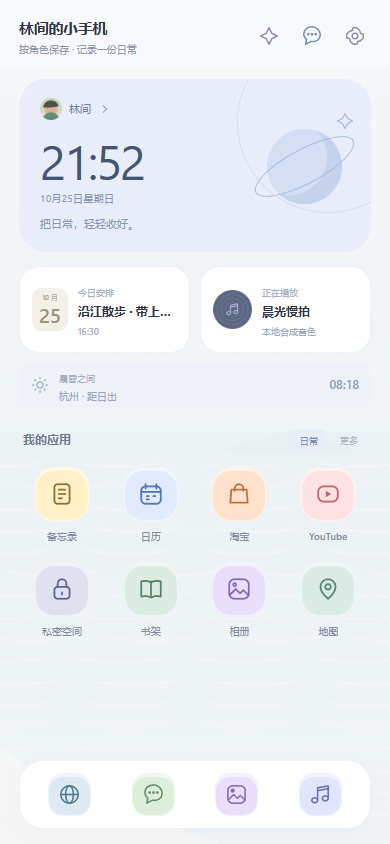
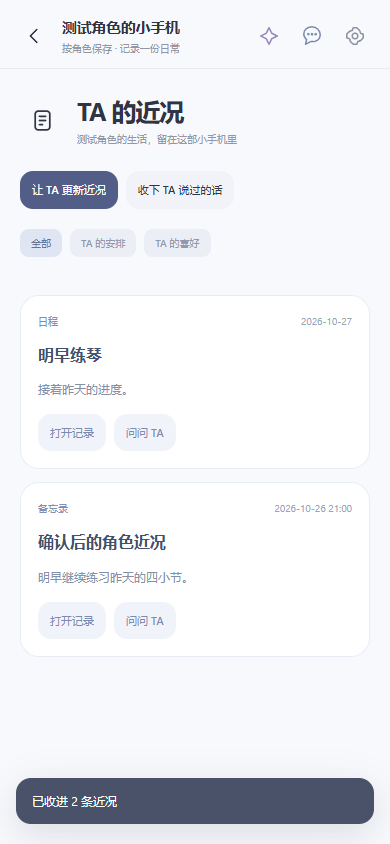
Add a new SDK catalog while retaining the initial-client catalog

diff --git a/sdk/skivu.d.ts b/sdk/skivu.d.ts
@@ -1,9 +1,12 @@
 /** GPL-3.0-only. Host SDK 1.0. All methods return JSON; no host credentials. */
 type Json = string | number | boolean | null | Json[] | { [key:string]:Json };
-type PluginMethod = 'host.info'|'context.get'|'ui.toast'|'storage.get'|'storage.set'|'storage.remove'|'storage.keys'|'secrets.get'|'secrets.set'|'secrets.remove'|'fs.read'|'fs.write'|'fs.list'|'fs.remove'|'files.pick'|'files.save'|'https.request'|'network.request'|'characters.list'|'characters.get'|'characters.update'|'chat.read'|'chat.append'|'ai.generate'|'prompt.set'|'clipboard.read'|'clipboard.write';
+type PluginMethod = 'host.info'|'context.get'|'ui.toast'|'ui.openExternal'|'storage.get'|'storage.set'|'storage.remove'|'storage.keys'|'secrets.get'|'secrets.set'|'secrets.remove'|'fs.read'|'fs.write'|'fs.list'|'fs.remove'|'files.pick'|'files.save'|'https.request'|'network.request'|'characters.list'|'characters.get'|'characters.update'|'chat.read'|'chat.append'|'ai.generate'|'prompt.set'|'clipboard.read'|'clipboard.write';
 interface SkivuSdk {
   readonly apiVersion:'1.0';
   call<T extends Json=Json>(method:PluginMethod,params?:{[key:string]:Json}):Promise<T>;
   on(event:'context.changed'|'host.pause'|'host.suspend',handler:(detail:Json)=>void):()=>void;
 }
 declare const Skivu:SkivuSdk;
+
+/** ui.openExternal({url}) requires external.open and host >= 0.2.39. HTTPS only. */
+interface ExternalOpenReceipt { status: 'accepted' | 'cancelled' | 'not_available'; }

diff --git a/tools/validate_web_plugins.py b/tools/validate_web_plugins.py
@@ -49,15 +49,18 @@ def validate():
         require(build(preferred)==raw,'Preferred editable source differs from built package')
         for item in provenance['files']:
             file=(preferred/item['path']).resolve();require(file.is_relative_to(preferred) and hashlib.sha256(file.read_bytes()).hexdigest()==item['sha256'],'Editable source digest mismatch')
-    path=ROOT/'catalog/apps.json';entries=[]
-    if path.exists():
-        c=json.loads(path.read_bytes());require(set(c)=={'schemaVersion','protocolVersion','packages'} and c['schemaVersion']==1 and c['protocolVersion']=='3.0' and isinstance(c['packages'],list) and len(c['packages'])<=5000,'Invalid Web catalog');entries=c['packages']
-    seen=set()
-    for e in entries:
-        require(set(e)=={'manifest','url','sha256','bytes'},'Invalid catalog entry')
-        ident=e['manifest']['id'];require(ident not in seen,'Duplicate Web plugin ID');seen.add(ident)
-        validate_entry(e,packages)
-    return len(packages),len(entries)
+    count=0
+    for name in ['apps.json','apps-v2.json']:
+        path=ROOT/'catalog'/name;entries=[]
+        if path.exists():
+            c=json.loads(path.read_bytes());require(set(c)=={'schemaVersion','protocolVersion','packages'} and c['schemaVersion']==1 and c['protocolVersion']=='3.0' and isinstance(c['packages'],list) and len(c['packages'])<=5000,'Invalid Web catalog');entries=c['packages']
+        seen=set()
+        for e in entries:
+            require(set(e)=={'manifest','url','sha256','bytes'},'Invalid catalog entry')
+            ident=e['manifest']['id'];require(ident not in seen,'Duplicate Web plugin ID');seen.add(ident)
+            validate_entry(e,packages)
+        count+=len(entries)
+    return len(packages),count
 
 if __name__=='__main__':
     print('Web packages/listed:',validate())

diff --git a/tools/build_web_plugin.py b/tools/build_web_plugin.py
@@ -19,7 +19,7 @@ MIME_TYPES={'.html':'text/html','.htm':'text/html','.css':'text/css',
             '.ico':'image/vnd.microsoft.icon','.woff':'font/woff','.woff2':'font/woff2',
             '.ttf':'font/ttf','.otf':'font/otf','.mp3':'audio/mpeg','.wav':'audio/wav',
             '.ogg':'audio/ogg','.mp4':'video/mp4','.webm':'video/webm','.pdf':'application/pdf'}
-PERMISSIONS={'storage','files','secrets','network','network.local','characters.read','characters.write','chat.read','chat.write','ai.generate','prompt','clipboard'}
+PERMISSIONS={'storage','files','secrets','network','network.local','characters.read','characters.write','chat.read','chat.write','ai.generate','prompt','clipboard','external.open'}
 MANIFEST_KEYS={'schemaVersion','apiVersion','id','name','version','minHostVersion','author','description','license','source','entry','permissions','networkDomains','contributes'}
 
 def require(value,message):

diff --git a/docs/open-plugin-sdk.md b/docs/open-plugin-sdk.md
@@ -59,6 +59,7 @@ Skivu 的独立 Web 插件使用 HTML/CSS/JavaScript、ES modules、Canvas、Web
 | `prompt.set` | prompt | `{text}` → 当前角色的本插件提示词贡献；仅用户启用的插件生效，可设空文本撤回 |
 | `clipboard.read/write` | clipboard | `{}` / `{text}` → 文本 / true |
 | `ui.toast` | 无 | `{text}` → true |
+| `ui.openExternal` | external.open | **宿主0.2.39起**：`{url}` → `{status:"accepted"或"cancelled"或"not_available"}`；每次由宿主确认，再交系统浏览器或关联软件 |
 
 `https.request` 支持标准 HTTP 方法、自定义端口和插件自有 Authorization/Cookie 头，不附加宿主的任何认证信息；不跟随重定向。`networkDomains` 支持精确域名、`*.example.com` 和 `*`（所有公开 HTTPS 站点）。只有声明 `network` 与 `network.local`、并得到用户授权后，才能连接用户自己的 HTTP/本机/局域网服务；可用独立的 Termux/电脑/自托管服务提供 Python、Node、stdio MCP 等能力。Skymoni 自有服务器、解析到宿主服务器的地址、云元数据和链路本地地址始终不对插件开放。解析后的连接地址固定，保留 HTTPS 证书与主机名验证，阻止重新解析与跳转越过边界。单次响应/文件 8 MiB。需要第三方账户的插件使用自己的 secrets 空间。App 不执行任意本机 shell、反射或任意 MethodChannel。
 
@@ -73,3 +74,13 @@ SDK 使用 `Skivu.on("context.changed", callback)`、`Skivu.on("host.suspend", c
 开发者可以从本地 `.skivu.json` 导入，也可添加自己的 HTTPS 目录；无需先成为官方收录作者。官方目录与第三方目录均提供固定下载 URL、SHA-256 和精确字节数。更新进行完整性校验、保留旧包、重置授权。包/目录/SDK 均在 GitHub；服务端运维配置和私有凭据不属于插件项目。
 
 开放 API 只表示插件可请求这些能力。敏感动作仍由宿主显示真实确认，插件不能用声明自行授权，不能冒充宿主系统权限窗口。
+
+## 公开链接与外部软件
+
+`ui.openExternal` 是 SDK 1.0 的增量能力，需声明 `external.open` 并通过 `host.info.methods` 探测。依赖此能力的包设置 `minHostVersion: "0.2.39"`。仅接受一个公开 HTTPS `url`，拒绝账号信息、片段、脚本、file、data 和任意 intent。打开前与确认后均检查 DNS，拒绝私网、环回、链路本地、元数据和宿主服务器目标；同时支持公开 IPv4/IPv6 解析检查。不会附带宿主认证信息，不读取外部软件 Cookie 或登录状态。
+
+`accepted` 仅表示系统接受了打开请求，不能据此声称已登录、发送、支付、下单或播放。`cancelled` 表示用户取消，`not_available` 表示系统无对应处理能力。系统浏览器/关联软件独立处理后续导航、重定向、DNS和其自身账号；插件网络代理的地址固定机制不延伸到外部软件。没有新增插件 ID、renderer 或第三方包名白名单。
+
+## 目录向前兼容
+
+0.2.40起使用官方 `https://skymoni.com/app-plugins/catalog/apps-v2.json`，自动迁移此前官方地址，保留用户第三方目录。GitHub备用路径为 `catalog/apps-v2.json`。旧 `apps.json` 及其GitHub备用内容继续提供初版宿主可解析的条目，不加入其不认识的权限。新版逐条隔离未来/异常条目，展示兼容提示，其他有效插件继续可用。两个目录都保持协议3.0并校验固定提交、完整manifest、SHA-256与大小；没有更改既有下载地址或逐插件ID特判。

diff --git a/README.md b/README.md
@@ -30,7 +30,7 @@ python tools/validate.py --package /path/to/your/plugin
 
 ## 仓库内容
 
-[角色小手机 1.2.0](docs/pocket-phone.md) 提供21个角色生活应用。源码、测试、安装包与发行版独立维护在 [skivu-pocket-phone](https://github.com/skyjjgw/skivu-pocket-phone)，本仓库仅收录固定提交的安装链接、清单、大小与摘要。
+[角色小手机 1.3.0](docs/pocket-phone.md) 提供21个角色生活应用。源码、测试、安装包与发行版独立维护在 [skivu-pocket-phone](https://github.com/skyjjgw/skivu-pocket-phone)，本仓库仅收录固定提交的安装链接、清单、大小与摘要。
 
 | 路径 | 用途 |
 | --- | --- |
@@ -40,7 +40,7 @@ python tools/validate.py --package /path/to/your/plugin
 | `plugins/qq/`、`plugins/wechat/` | 首批可安装的界面包、说明与完整许可 |
 | `catalog/index.json` | App 安装目录，固定包提交、SHA-256 和字节数 |
 | `catalog/extensions.json`、`extensions/` | 技能与 MCP 扩展目录、包及源码 |
-| `catalog/apps.json`、`apps/` | 开放 Web 插件收录目录；apps 仅保留 SDK 自测示例 |
+| `catalog/apps.json`、`catalog/apps-v2.json`、`apps/` | 开放 Web 插件收录目录；apps 仅保留 SDK 自测示例 |
 | `templates/web-plugin/`、`sdk/` | 可编辑交互示例与 SDK 类型定义 |
 | `catalog/drafts.json` | 旧版草案目录，保持 `runtimeReady: false` |
 | `docs/` | 开发、目录收录、权限和路线说明 |
@@ -53,3 +53,5 @@ python tools/validate.py --package /path/to/your/plugin
 欢迎继续提交内容包、渲染器改进和新能力提案。技能不自动获得设备权限，MCP 使用用户配置的远端 HTTP 服务。Android 专有接口、stdio 服务和本机可执行脚本需要各自的宿主适配；更改渲染器需提交 App 源码并更新 App。见 [扩展格式](docs/extensions.md)、[运行格式](docs/runtime.md) 与 [路线图](docs/roadmap.md)。
 
 原创仓库文件和内置模板采用 [GPL-3.0-only](LICENSE)。第三方独立仓库的插件以其自身声明为准；收录不会改变作者的许可证。项目中没有复用其他 App 的插件宿主或运行时代码。
+
+Skivu 0.2.40起自动迁移到 `apps-v2.json` 新版目录；`apps.json` 保留SDK1.0初版客户端可识别的1.2.0小手机与实验室，避免新增权限导致旧客户端整目录解析失败。新目录包含独立仓库的1.3.0，实际安装仍按minHostVersion校验。

diff --git a/docs/pocket-phone.md b/docs/pocket-phone.md
@@ -1,15 +1,15 @@
 # 角色小手机
 
-当前收录版本 **1.2.0**，需要 Skivu 0.2.38 / SDK 1.0。
+当前收录版本 **1.3.0**，需要 Skivu 0.2.39；建议更新 Skivu 0.2.40 / build44 自动使用新版目录。
 
 - 个人主仓库、完整源码和使用说明：[skyjjgw/skivu-pocket-phone](https://github.com/skyjjgw/skivu-pocket-phone)
 - 组织 Fork：[Skymoni-Labs/skivu-pocket-phone](https://github.com/Skymoni-Labs/skivu-pocket-phone)
-- [发行版与安装包](https://github.com/skyjjgw/skivu-pocket-phone/releases/tag/v1.2.0)
+- [发行版与安装包](https://github.com/skyjjgw/skivu-pocket-phone/releases/tag/v1.3.0)
 
-市场仓库仅维护 `catalog/apps.json` 的收录信息，不保存该插件的业务源码或安装包。目录固定完整 Git 提交、SHA-256、字节数和完整 manifest；验证器下载有大小限制的 JSON，逐字节验证摘要、清单与许可，不执行插件代码。独立仓库 CI 从可编辑源码重建安装包并比对相同字节。审核依然需要查看源码和实际功能，摘要校验不替代代码审核。
+市场仓库仅维护 `catalog/apps-v2.json` 的收录信息，不保存该插件的业务源码或安装包。目录固定完整 Git 提交、SHA-256、字节数和完整 manifest；验证器下载有大小限制的 JSON，逐字节验证摘要、清单与许可，不执行插件代码。独立仓库 CI 从可编辑源码重建安装包并比对相同字节。审核依然需要查看源码和实际功能，摘要校验不替代代码审核。
 
-原生 HTML/CSS/JavaScript，无前端框架、UI 依赖或额外运行时。1.2.0 全量重建界面，保留 21 个应用、42 个集合、31 个兼容工具与旧存档。安装、配置、权限、限制和来源许可详见独立仓库。
+原生 HTML/CSS/JavaScript，无前端框架、UI 依赖或额外运行时。1.3.0 新增 TA 的近况、角色原话收藏、真实书目/RSS与角色软件工具，沿用轻量界面，保留 21 个应用、42 个集合、31 个兼容工具与旧存档。安装、配置、权限、限制和来源许可详见独立仓库。
 
 此前 1.1.0 / 1.1.1 的 Git 历史、Release 与固定提交下载链接继续保留。其历史发布记录位于 `docs/releases/`。
 
-![1.2.0 桌面，虚构演示角色](images/pocket-phone-home.png)
+![1.3.0 角色近况，模拟SDK演示](images/pocket-phone-home.png)
